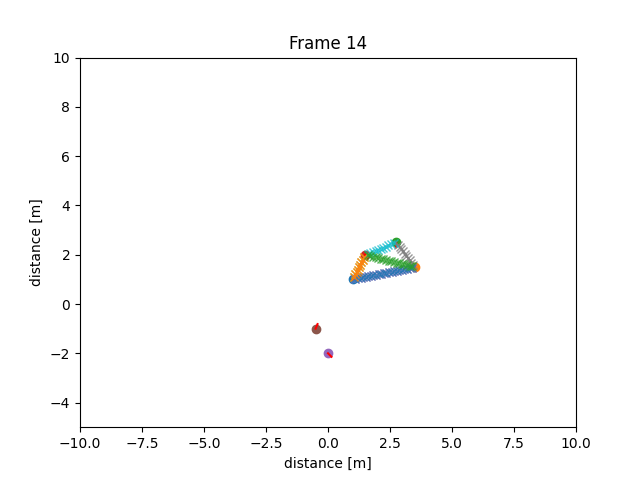
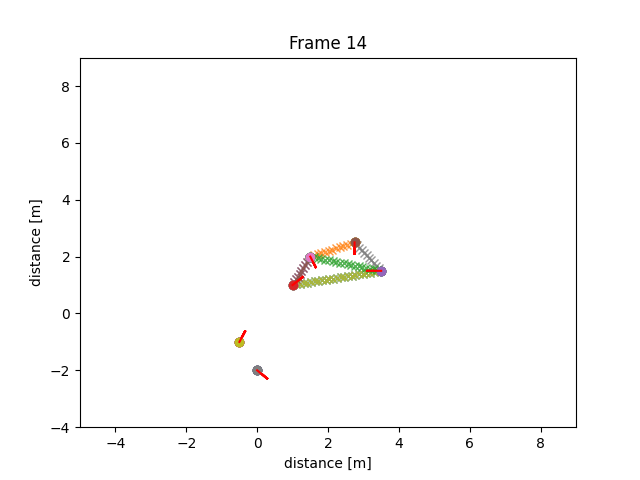
Update to synth fformations

diff --git a/src/ros_openpose/scripts/test_fFormation.py b/src/ros_openpose/scripts/test_fFormation.py
@@ -23,14 +23,7 @@ class F_formation:
         #     self.createFFormations(data[i],i)
             plt.cla() 
             print("picture index: ", i)
-            for j in range(0, len(data[i])):
-                xAngle = 0.2 * math.cos(data[i][j][2]) + data[i][j][0]
-                yAngle = 0.2 * math.sin(data[i][j][2]) + data[i][j][1]
-                x=[data[i][j][0], xAngle]
-                y=[data[i][j][1], yAngle]
-                plt.plot(data[i][j][0], data[i][j][1],'o')
-                plt.plot(x,y, color='red')
-            self.createFFormations(data[i],i+1)
+            self.createFFormations(data[i],i+1, data[i])
 
     def getTestData(self):
         data = self.testData()
@@ -48,10 +41,8 @@ class F_formation:
             dataPerson.append(data)
         return dataPerson
 
-    def createFFormations(self, msg, index):
+    def createFFormations(self, msg, index, data):
         persons = self.excludeDistance(msg, 3)
-        color = ['blue', 'orange', 'red', 'green', 'purple', 'brown', 'pink', 'gray', 'olive', 'cyan','blue', 'orange', 'red', 'green', 'purple', 'brown', 'pink', 'gray', 'olive', 'cyan','blue', 'orange', 'red', 'green', 'purple', 'brown', 'pink', 'gray', 'olive', 'cyan']
-        symbol = ['1','2','3','4','+','x','*','1','2','3','4','+','x','*','1','2','3','4','+','x','*','1','2','3','4','+','x','*','1','2','3','4','+','x','*','1','2','3','4','+','x','*','1','2','3','4','+','x','*','1','2','3','4','+','x','*','1','2','3','4','+','x','*','1','2','3','4','+','x','*','1','2','3','4','+','x','*','1','2','3','4','+','x','*','1','2','3','4','+','x','*','1','2','3','4','+','x','*','1','2','3','4','+','x','*','1','2','3','4','+','x','*','1','2','3','4','+','x','*','1','2','3','4','+','x','*','1','2','3','4','+','x','*','1','2','3','4','+','x','*','1','2','3','4','+','x','*','1','2','3','4','+','x','*','1','2','3','4','+','x','*','1','2','3','4','+','x','*','1','2','3','4','+','x','*','1','2','3','4','+','x','*']
         if(self.checkForArray(persons)): #Check if there are people in a combinations
             print("Persons detected")
             combinations = self.oSpaceCombinations(len(persons))
@@ -72,7 +63,7 @@ class F_formation:
                         print("j:", j)
                         str = f"src/ros_openpose/scripts/testFiles/test{index}.png"
                         title = f"Frame {index}"
-                        self.plotPoints(points, Path(str), title)
+                        self.plotPoints(points, Path(str), title, data)
             else:
                 print("no persons detected")
                 for j in range(0, len(msg)):
@@ -85,10 +76,17 @@ class F_formation:
                     # plt.plot(msg[j][0], msg[j][1],'o')
                     # plt.plot(x,y, color='red')
                     plt.title(title)
-                    plt.xlim([-10, 10])
-                    plt.ylim([-5, 10])
+                    plt.xlim([-5, 9])
+                    plt.ylim([-4, 9])
                     plt.xlabel("distance [m]")
                     plt.ylabel("distance [m]")
+                    for j in range(0, len(data)):
+                        xAngle = 0.4 * math.cos(data[j][2]) + data[j][0]
+                        yAngle = 0.4 * math.sin(data[j][2]) + data[j][1]
+                        x=[data[j][0], xAngle]
+                        y=[data[j][1], yAngle]
+                        plt.plot(data[j][0], data[j][1],'o')
+                        plt.plot(x,y, color='red')
                     plt.savefig(str)
         else:
             #rospy.loginfo("There are no combinations")
@@ -513,7 +511,7 @@ class F_formation:
 
         return LinePoints
     
-    def plotPoints(self, msg, str, title):
+    def plotPoints(self, msg, str, title,data):
         x = []
         y = []
         for i in range(0,len(msg)):
@@ -521,10 +519,17 @@ class F_formation:
             y.append(msg[i][1])
         plt.plot(x, y, 'x', alpha=0.8)
         plt.title(title)
-        plt.xlim([-10, 10])
-        plt.ylim([-5, 10])
+        plt.xlim([-5, 9])
+        plt.ylim([-4, 9])
         plt.xlabel("distance [m]")
         plt.ylabel("distance [m]")
+        for j in range(0, len(data)):
+            xAngle = 0.4 * math.cos(data[j][2]) + data[j][0]
+            yAngle = 0.4 * math.sin(data[j][2]) + data[j][1]
+            x=[data[j][0], xAngle]
+            y=[data[j][1], yAngle]
+            plt.plot(data[j][0], data[j][1],'o')
+            plt.plot(x,y, color='red')
         plt.savefig(str)
 
 
